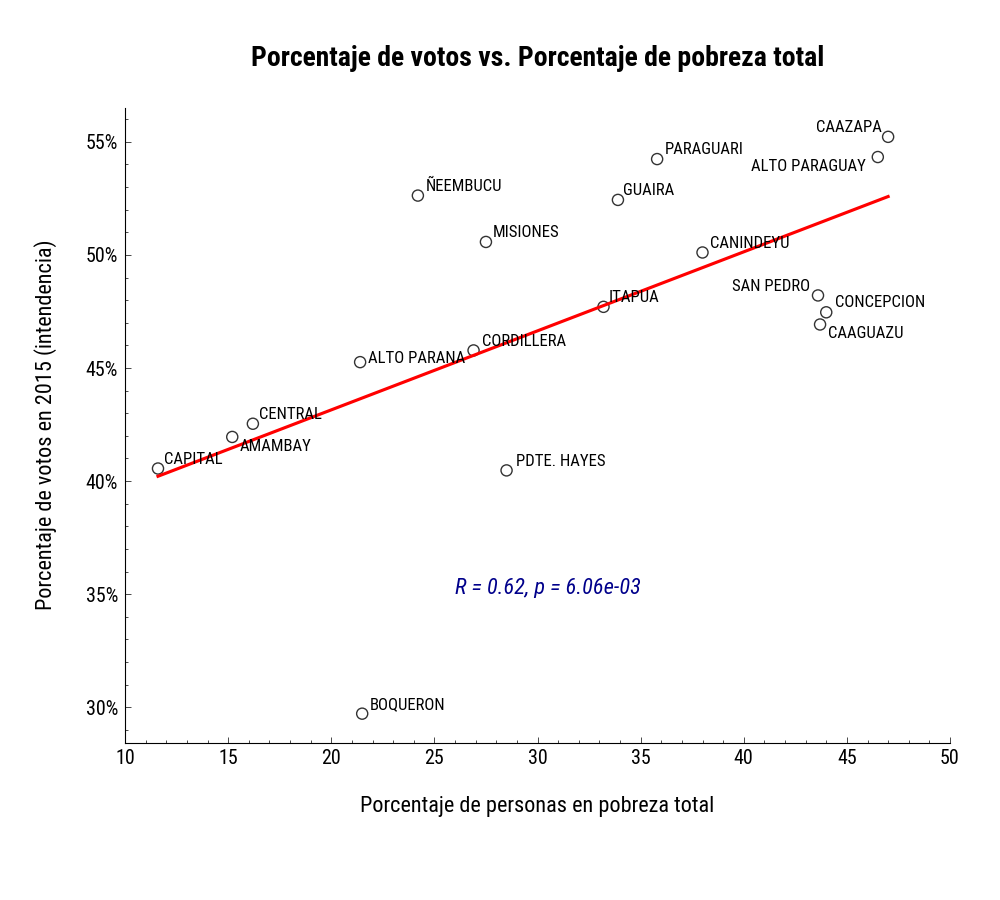
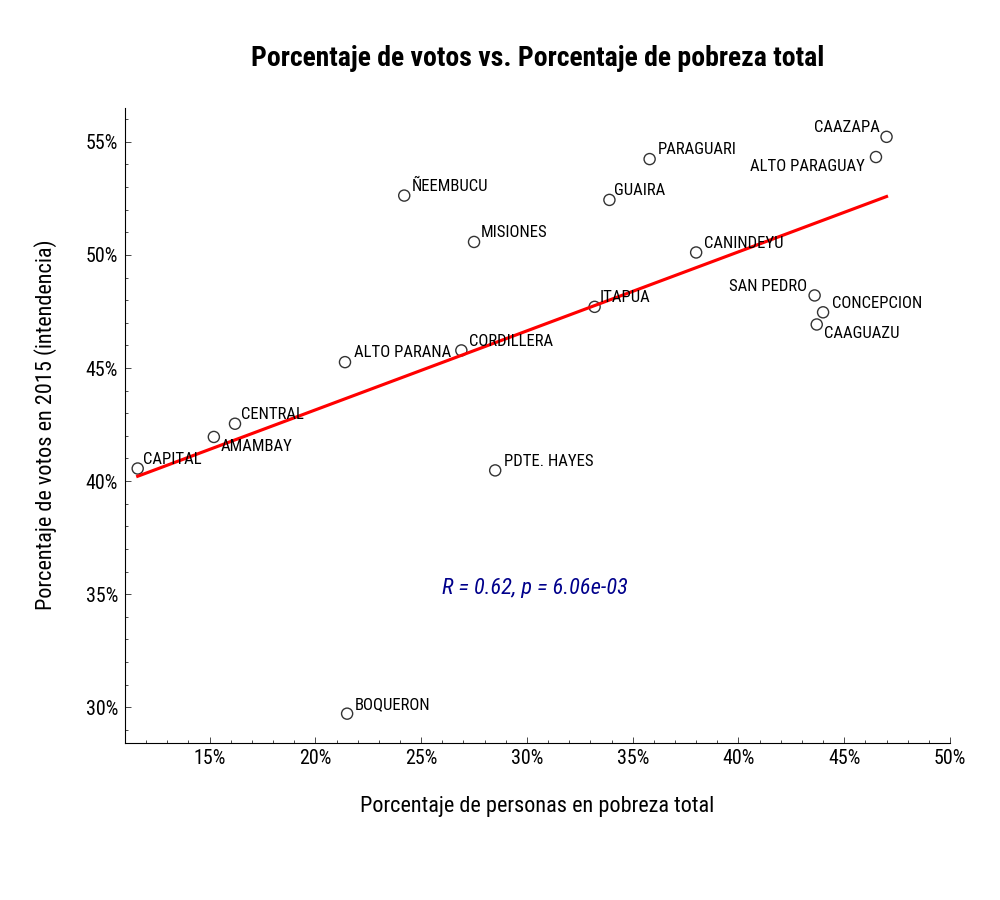
grapher: Allow configuration of number of decimals in ticks

diff --git a/src/graph/grapher.py b/src/graph/grapher.py
@@ -34,12 +34,14 @@ class Grapher:
         self,
         indicator: str,
         df: pd.DataFrame,
-        y_column: str,
+        ycolumn: str,
         title: str,
         xlab: str,
         ylab: str,
-        xticksuffix: str = "",
-        yticksuffix: str = "",
+        xtick_suffix: str = "",
+        ytick_suffix: str = "",
+        xtick_ndecimals: int = 0,
+        ytick_ndecimals: int = 0,
         indicator_factor: float = 1.0,
         xlim: Tuple[int, int] = None,
         stat_cor: StatCor = {'show': False}
@@ -51,12 +53,12 @@ class Grapher:
 
         Parameters
         ----------
-        df : Dataframe
-            The dataframe that contains the dependent variable and the column
-            by which to merge the dependent and independent variables.
         indicator : String
             Development indicator variable to use as independent variable.
-        y_column: String
+        df : pandas.Dataframe
+            The dataframe that contains the dependent variable and the column
+            by which to merge the dependent and independent variables.
+        ycolumn: String
             The dependent variable's column name in dataframe.
         title: String
             The plot's title.
@@ -64,10 +66,20 @@ class Grapher:
             The x axis label.
         ylab: String
             The y axis label.
-        yticksuffix:
+        xtick_suffix: String
+            Suffix to add to the independent variable's ticks such as "%".
+        ytick_suffix: String
             Suffix to add to the dependent variable's ticks such as "%".
+        xtick_ndecimals: Int
+            Number of decimals for the ticks of the independent variable.
+        ytick_ndecimals: Int
+            Number of decimals for the ticks of the dependent variable.
         indicator_factor: Float
             Scale indicator value by this factor.
+        xlim: Tuple(Int, Int)
+            The lower and upper end of the independent variable axis.
+        stat_cor: graph.Grapher
+            Used to show (or not) correlation statistics at a given coordinate.
         """
 
         # Queries for the requested indicator and creates a pandas dataframe
@@ -84,7 +96,7 @@ class Grapher:
         # Creates regression plot.
         ax = sns.regplot(
             x=mergedDf[indicator],
-            y=mergedDf[y_column],
+            y=mergedDf[ycolumn],
             ci=None,
             scatter_kws={"fc": "none", "edgecolor": "black"},
             line_kws={"color": "red"}
@@ -94,27 +106,35 @@ class Grapher:
         if xlim:
             ax.set_xlim(xlim)
 
-        # Adds suffix to x ticks.
-        ticks = plt.yticks()[0]
-        xlabels = [f"{x:.0f}{xticksuffix}" for x in ticks]
-        plt.yticks(ticks=ticks, labels=xlabels)
+        # Adds suffix to x ticks and format them to given number of decimals.
+        ticks = plt.xticks()[0]
+        xticks, xlabels = [], []
+        for x in ticks:
+            # Only process ticks that are within the x-axis limits.
+            if x < xlim[0] or x > xlim[1]:
+                continue
 
-        # Adds suffix to y ticks.
+            xticks.append(x)
+            label = f"{x:.{xtick_ndecimals}f}{xtick_suffix}"
+            xlabels.append(label)
+        plt.xticks(ticks=xticks, labels=xlabels)
+
+        # Adds suffix to y ticks and format them to given number of decimals.
         ticks = plt.yticks()[0]
-        ylabels = [f"{y:.0f}{yticksuffix}" for y in ticks]
+        ylabels = [f"{y:.{ytick_ndecimals}f}{ytick_suffix}" for y in ticks]
         plt.yticks(ticks=ticks, labels=ylabels)
 
         # Add labels for each point.
         self.label_points(
             mergedDf[indicator],
-            mergedDf[y_column],
+            mergedDf[ycolumn],
             mergedDf["depdes"]
         )
 
         if stat_cor['show']:
             annotation = self.stats.r_and_p_value(
                 mergedDf[indicator],
-                mergedDf[y_column]
+                mergedDf[ycolumn]
             )
             ax.text(stat_cor["x_pos"], stat_cor["y_pos"], annotation,
                     fontsize=16, fontstyle="italic", c="darkblue")
@@ -134,9 +154,11 @@ class Grapher:
         """
 
         return self.make_vs_indicator_graph(
-            "ECON_IMAP", df, y_column, title, xlab, ylab, '%',
+            "ECON_IMAP", df, y_column, title, xlab, ylab,
+            ytick_suffix='%',
             indicator_factor=1/1000000,
             xlim=(1.3, 4.5),
+            xtick_ndecimals=1,
             stat_cor={'show': True, 'x_pos': 2.5, 'y_pos': 30}
         )
 
@@ -153,8 +175,8 @@ class Grapher:
 
         return self.make_vs_indicator_graph(
             "PBRZ_PTOTL", df, y_column, title, xlab, ylab,
-            xticksuffix='%', yticksuffix='%',
-            xlim=(10, 50),
+            xtick_suffix='%', ytick_suffix='%',
+            xlim=(11, 50),
             stat_cor={'show': True, 'x_pos': 26, 'y_pos': 35}
         )
 
